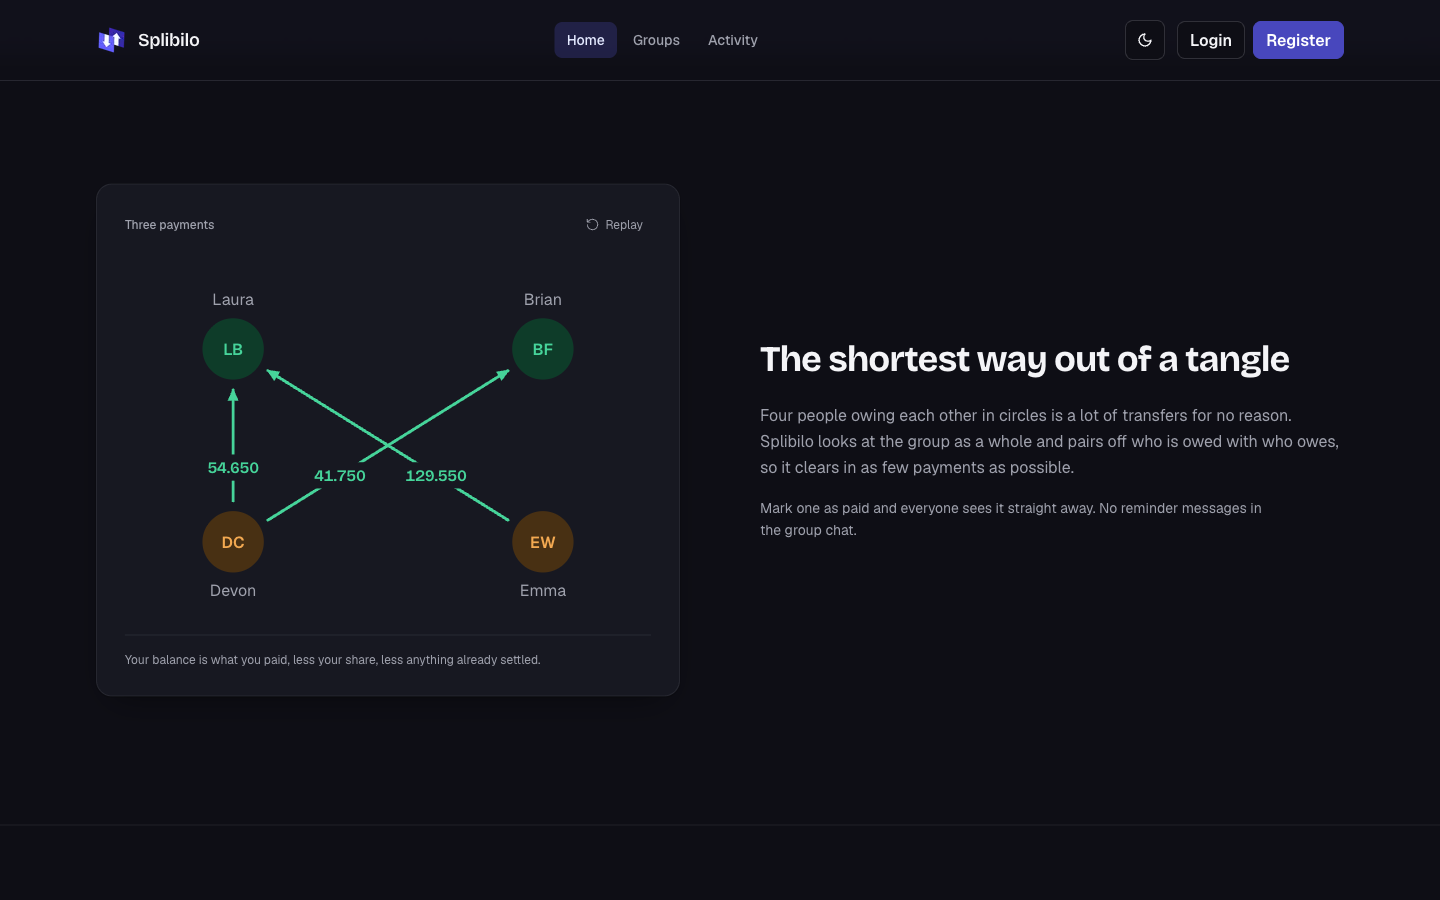
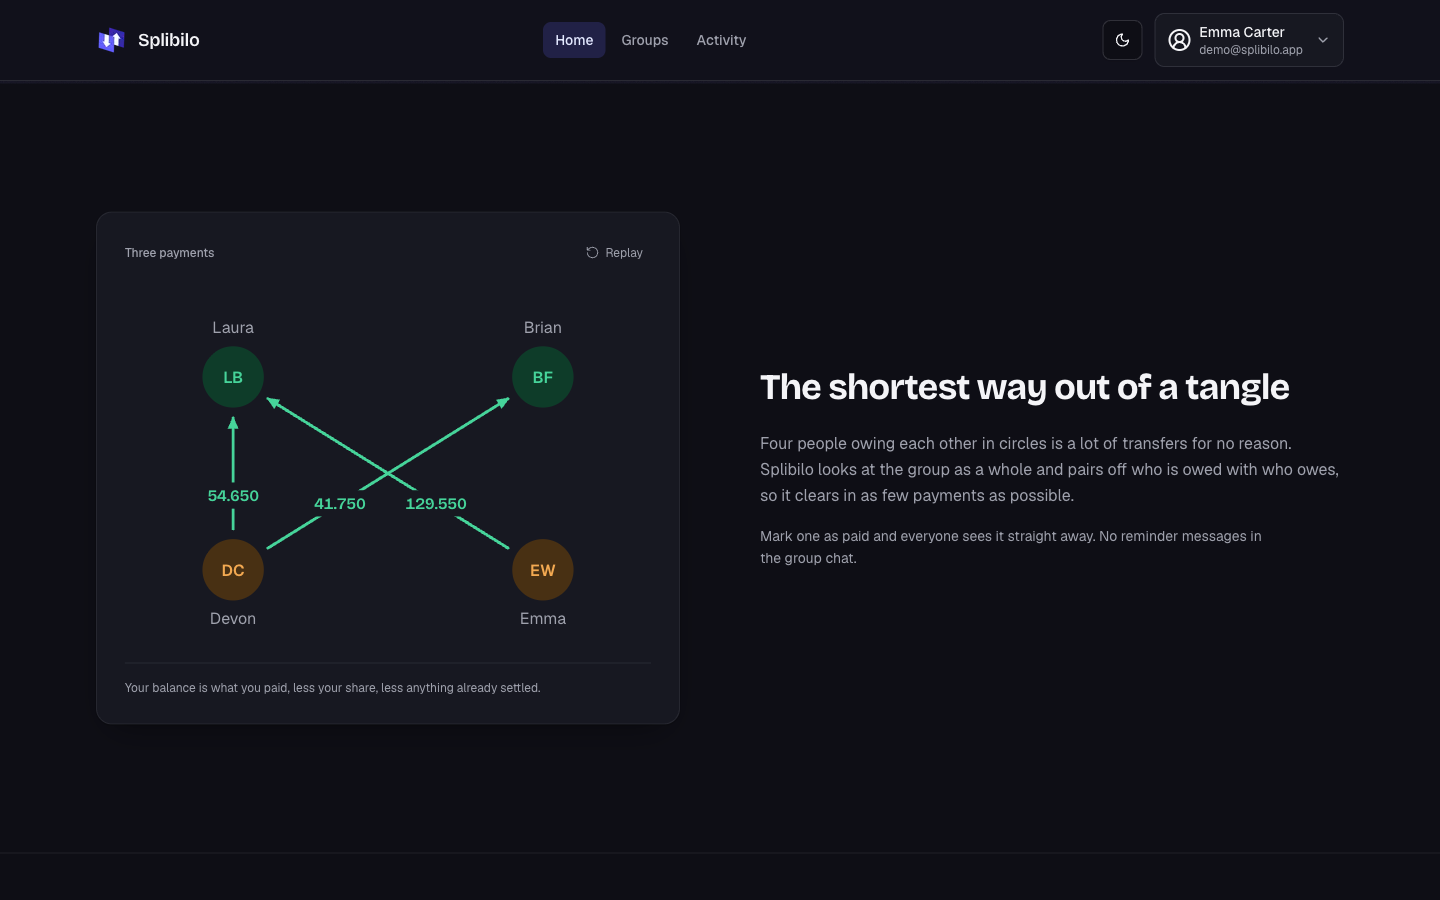
docs: rewrite readme with themed screenshots

diff --git a/README.md b/README.md
@@ -1,155 +1,101 @@
-# 💸 Splibilo
+<p align="center">
+  <img src="frontend/public/images/logo/logo.png" alt="Splibilo" width="110" />
+</p>
 
-### Web-Based Group Expense Tracking & Settlement System
+<h1 align="center">Splibilo</h1>
 
-Splibilo is a full-stack web application designed to manage shared group expenses in a structured, transparent, and automated way.
+<p align="center"><b>Track shared group expenses and settle up in the fewest payments possible.</b></p>
 
-The system enables users to record expenses, split costs (equal or custom), upload receipts with OCR-assisted parsing, track real-time balances, and generate optimized settlement suggestions using a debt simplification algorithm.
+Splitting a trip, a flat, or a dinner ends the same way: a group chat full of
+"who owes who" and a spreadsheet nobody trusts. Splibilo replaces that: log an
+expense (or snap the receipt), and it tracks every balance and tells each person
+the *shortest* set of payments that clears the group.
 
-Built with a modular client–server architecture using **NestJS** (backend) and **Next.js App Router** (frontend), powered by **PostgreSQL + Prisma ORM**.
+Full-stack: **NestJS** + **Next.js (App Router)** + **PostgreSQL/Prisma**.
 
----
+![Splibilo settlement graph](docs/screenshots/01-landing-settlements-light-preview.png#gh-light-mode-only)
+![Splibilo settlement graph](docs/screenshots/01-landing-settlements-dark-preview.png#gh-dark-mode-only)
 
-## 🚀 Key Features
+## Quick Start
 
-### 🔐 Authentication & Authorization
+```bash
+git clone https://github.com/andeluw/splibilo && cd splibilo
 
-- JWT-based authentication with refresh token rotation
-- Role-based access control (Owner, Member, Admin)
-- Protected routes and membership enforcement
-- Secure logout with token invalidation
+# Backend (NestJS, :8000)
+cd backend
+cp .env.example .env          # set DATABASE_URL + GEMINI_API_KEY
+pnpm install
+pnpm prisma migrate dev
+pnpm db:seed                  # demo group + expenses
+pnpm start:dev
 
----
+# Frontend (Next.js, :3000) in a new terminal
+cd frontend
+cp .env.example .env
+pnpm install
+pnpm dev
+```
 
-### 👥 Group & Member Management
+Open http://localhost:3000. Requires PostgreSQL and Node 18+.
 
-- Create and manage expense groups
-- Invite members via email or unique invite code
-- Configurable permissions (edit/delete expense rules)
-- Archive and lock group functionality
-- Prevent duplicate membership and invalid invites
+## Features
 
----
+- **Settle in the fewest payments**: greedy debt-simplification (O(n log n)) turns a tangle of IOUs into a minimal "who pays whom" list.
+- **Snap a receipt, skip the typing**: Sharp → Tesseract → Gemini pipeline extracts items, tax and total into a prefilled expense form.
+- **Balances that are always right**: every expense/settlement recomputes net balances in real time; custom splits are floating-point-safe, updates are transactional.
+- **Groups with real permissions**: invite by email or code, role-based access (Owner/Admin/Member), archive and lock.
+- **See where the money goes**: trends, category breakdown, top payers, personal summary.
+- **Secure by default**: JWT auth with refresh-token rotation, membership-enforced routes, 90%+ backend test coverage.
 
-### 💸 Expense Management
+## Screenshots
 
-- Add expenses with:
-  - Description
-  - Amount
-  - Category
-  - Date
-  - Paid-by user
-  - Optional receipt upload
-- Support for:
-  - Equal split
-  - Custom split with floating-point-safe validation (epsilon comparison)
-- Pagination, filtering, and sorting
-- Transaction-safe updates using `prisma.$transaction`
+**Your groups**: every shared group, your balance in each, filter by category.
 
----
+![Your groups](docs/screenshots/02-groups-light.png#gh-light-mode-only)
+![Your groups](docs/screenshots/02-groups-dark.png#gh-dark-mode-only)
 
-### 🧾 OCR-Assisted Receipt Parsing
+**Group overview**: balances, spend-over-time, category breakdown, top payers.
 
-Hybrid OCR pipeline:
+![Group overview](docs/screenshots/03-group-overview-light.png#gh-light-mode-only)
+![Group overview](docs/screenshots/03-group-overview-dark.png#gh-dark-mode-only)
 
-1. **Sharp** → Image preprocessing
-2. **Tesseract.js** → Raw text extraction
-3. **Google Gemini LLM** → Structured JSON parsing
+**Add an expense**: split equally or per person, attach a receipt, or prefill it from receipt OCR.
 
-Extracted fields:
+![Add an expense](docs/screenshots/04-expense-form-filled-light.png#gh-light-mode-only)
+![Add an expense](docs/screenshots/04-expense-form-filled-dark.png#gh-dark-mode-only)
 
-- Items
-- Subtotal
-- Tax
-- Grand total
+**Settlements**: what has actually been paid back, and record new transfers.
 
-Structured data is used to pre-fill expense forms automatically.
+![Settlements](docs/screenshots/05-settlements-light.png#gh-light-mode-only)
+![Settlements](docs/screenshots/05-settlements-dark.png#gh-dark-mode-only)
 
----
+**Your activity**: your position across every group, trends, recent expenses and settlements.
 
-### 📊 Automatic Balance Calculation
+![Your activity](docs/screenshots/06-activity-light.png#gh-light-mode-only)
+![Your activity](docs/screenshots/06-activity-dark.png#gh-dark-mode-only)
 
-Real-time net balance per member:
+## How It Works
+
+**Balance** per member:
 
 ```
 net = totalPaid - totalOwed + settlementsReceived - settlementsSent
 ```
 
-Balances update automatically after every expense or settlement.
+**Debt simplification**: separate creditors/debtors, sort by balance, greedy
+two-pointer match. O(n log n), minimal transaction count.
 
----
+**OCR pipeline**: Sharp (preprocess) → Tesseract.js (text) → Gemini (structured
+JSON: items, subtotal, tax, total) → prefilled expense form.
 
-### 🔄 Debt Simplification Algorithm
+## Tech Stack
 
-Splibilo minimizes the number of transactions required to settle debts.
+**Frontend**: Next.js 15, React 19, Tailwind v4, Shadcn UI, TanStack Query, Zustand, React Hook Form, Recharts
 
-Algorithm approach:
+**Backend**: NestJS 11, Prisma, PostgreSQL, JWT (refresh rotation), Multer + Sharp, Tesseract.js + Gemini, Nodemailer
 
-- Separate creditors and debtors
-- Sort by balance
-- Apply greedy two-pointer matching
+## Purpose
 
-Time complexity: **O(n log n)**
-
-Generates optimized “who owes whom” settlement suggestions.
-
----
-
-### 📈 Analytics Dashboard
-
-- Expense trends over time
-- Settlement trends
-- Category breakdown charts
-- Top payers ranking
-- Personal financial summary
-- Continuous date normalization for visual consistency
-
----
-
-## 🏗 Architecture Overview
-
-### Frontend
-
-- Next.js 15 (App Router)
-- React 19
-- Tailwind CSS v4
-- Shadcn UI
-- TanStack Query (server state)
-- Zustand (client state)
-- React Hook Form
-- Recharts
-
-### Backend
-
-- NestJS 11 (modular architecture)
-- Prisma ORM
-- PostgreSQL
-- JWT authentication with refresh rotation
-- Multer + Sharp (file uploads)
-- Tesseract.js + Google Gemini (OCR)
-- Nodemailer (email notifications)
-
----
-
-## 🧠 Engineering Highlights
-
-- Floating-point-safe share validation
-- Transactional expense and share updates
-- Greedy debt simplification algorithm
-- In-memory analytics aggregation
-- Hybrid OCR + LLM structured extraction pipeline
-- Role-based permission enforcement
-- 90%+ backend test coverage (Jest + Supertest E2E)
-
----
-
-## 🎯 Purpose
-
-Splibilo centralizes collaborative expense management into a structured system, replacing spreadsheets and informal tracking with automated, transparent, and intelligent financial coordination.
-
-It ensures:
-
-- Accuracy
-- Fairness
-- Transparency
-- Reduced settlement friction
+Built to replace spreadsheets and "who owes who" chats with automated, transparent,
+fair settlement. A full-stack study in transactional data integrity, algorithmic
+optimization, and an OCR + LLM extraction pipeline.
